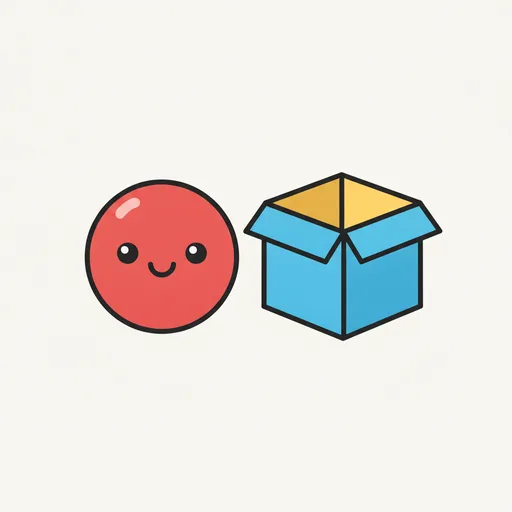
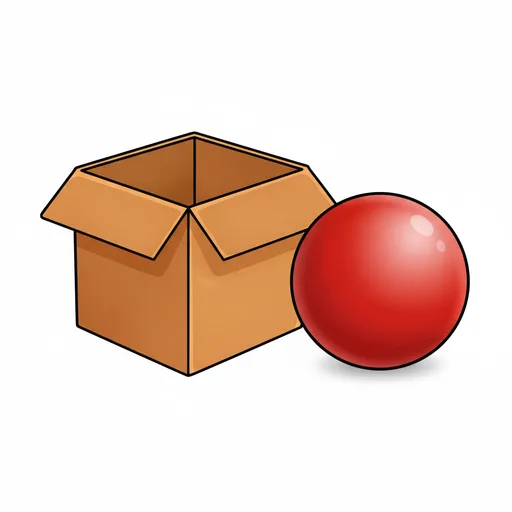
Feat: finish premium static re-render (Phases 12-14) + refresh-restore + finalize
- Premium images COMPLETE for every representational static image: Phase 12
  (Where-words/Questions/Time), Phase 13 (body plurals, shoes, chicken-leg,
  fish-fillet), Phase 14 (ABC "Alphabet Friends": house/kite/whale/queen/etc).
- SAFETY FIX: body-tummy was rendering an inappropriate figure — reprompted to a
  clearly clothed cartoon boy lifting his shirt hem to point at his tummy. All
  body-part images spot-checked child-appropriate.
- Counting Mountain shows the premium number cards 1-20 (ItemVisual rewired; number
  11-20 generated locally; animated numeral+stars kept as fallback).
- Page REFRESH now restores the current screen instead of bouncing Home (per-tab
  sessionStorage nav; Parent re-gates; fresh tab starts Home). verify-nav.mjs added.
- Cache bumped tv-images-v2 -> v3 (+ maxEntries 400 -> 600) to force-purge stale art.
- Swept 5 orphan images (removed vocab). gen-symbols: 429-auto-retry + auto-diversify.
- Docs: LEFT_TO_DO reflects Phase 2 A/B/C done, premium re-render complete, animation
  frames scoped as optional; baby-cry request logged.

check + build + verify:ui green (nav restore, 5 routines, board stable, 0 console errors).

Changed region(s): [[0.0625, 0.25, 0.9375, 0.75]]

diff --git a/src/store.js b/src/store.js
@@ -164,13 +164,32 @@ const initialProfiles = loadProfiles()
 const initialActive = loadJSON(ACTIVE_KEY, null)
 const initialChildCount = loadChildCount(initialProfiles)
 
+// Remember the current screen across a page REFRESH (per-tab, sessionStorage) so a reload
+// stays on the page you were on instead of jumping Home. A fresh visit (new tab / reopened
+// browser) still starts at Home. Gated/transient screens are never restored (re-gate on
+// reload); a restored Learning screen needs its world to still exist.
+const NAV_KEY = 'tv_nav_v1'
+const NO_RESTORE = new Set(['setup', 'profiles', 'parent', 'rest'])
+const loadNav = () => {
+  try { return JSON.parse(sessionStorage.getItem(NAV_KEY)) } catch { return null }
+}
+const restoredNav = (() => {
+  if (initialChildCount == null || !initialActive) return null // setup / "who's playing?" flow wins
+  const n = loadNav()
+  if (!n || !n.screen || NO_RESTORE.has(n.screen)) return null
+  if (n.screen === 'learning' && !getWorld(n.worldId)) return null // world must still exist
+  return n
+})()
+
 export const useStore = create((set, get) => ({
   // First run on a fresh device asks "how many children?" (setup). Otherwise land
   // on Home if a child is chosen, else the "who's playing?" picker.
-  screen: initialChildCount == null ? 'setup' : initialActive ? 'home' : 'profiles',
+  screen: restoredNav
+    ? restoredNav.screen
+    : initialChildCount == null ? 'setup' : initialActive ? 'home' : 'profiles',
   childCount: initialChildCount, // 1 | 2 | null(not yet chosen)
-  worldId: null,
-  itemIndex: 0,
+  worldId: restoredNav?.worldId ?? null,
+  itemIndex: restoredNav?.itemIndex ?? 0,
   muted: isMuted(),
   autoPlay: false,
 
@@ -526,5 +545,19 @@ export const useStore = create((set, get) => ({
       return { progress: fresh }
     }),
 }))
+
+// Persist the current screen (+ Learning context) per-tab whenever it changes, so a page
+// refresh restores it (see restoredNav above). Only writes when the nav actually changes.
+if (typeof window !== 'undefined') {
+  let lastNav = ''
+  useStore.subscribe((s) => {
+    const nav = `${s.screen}|${s.worldId}|${s.itemIndex}`
+    if (nav === lastNav) return
+    lastNav = nav
+    try {
+      sessionStorage.setItem(NAV_KEY, JSON.stringify({ screen: s.screen, worldId: s.worldId, itemIndex: s.itemIndex }))
+    } catch { /* private mode / storage full — refresh just falls back to Home */ }
+  })
+}
 
 export { WORLDS, getWorld }

diff --git a/vite.config.js b/vite.config.js
@@ -31,9 +31,9 @@ export default defineConfig({
             urlPattern: ({ url }) => url.pathname.includes('/images/'),
             handler: 'StaleWhileRevalidate',
             options: {
-              cacheName: 'tv-images-v2',
-              // ~215 bundled WebP today; headroom so a fully-explored install stays cached.
-              expiration: { maxEntries: 400, maxAgeSeconds: 60 * 60 * 24 * 90 },
+              cacheName: 'tv-images-v3', // bumped: force-purge stale art after the premium re-render
+              // ~450 bundled WebP today; headroom so a fully-explored install stays cached.
+              expiration: { maxEntries: 600, maxAgeSeconds: 60 * 60 * 24 * 90 },
               cacheableResponse: { statuses: [0, 200] },
             },
           },

diff --git a/docs/LEFT_TO_DO.md b/docs/LEFT_TO_DO.md
@@ -3,24 +3,39 @@
 > Tracked backlog of things deliberately deferred (mostly blocked on credits/quota).
 > When ready, do the steps below and commit.
 
-## 📍 Phases remaining (at a glance) — updated 2026-08-05
-- **SLP Phase 1 (language) — ✅ DONE.** All of 1.4 (Phrase Builder natural say-override audio),
-  1.8 (homonym game-pool rule), 1.9 (doc wording + `PHRASES_REVIEW.md`) shipped, plus the earlier
-  language corrections, natural game prompts, labelled praise, errorless retry, real-fx sounds,
-  Word Board AAC redesign + vocab fill-out (see §15).
-- **SLP Phase 2 (vocabulary + structure) — A+B DONE; C deferred.**
-  - **A ✅ Social category** (16 core-communication words: Yes/No/More/All done/Okay/Please/Thank
-    you/Hi/Bye/Mine/Again/Uh-oh/Wow/Sorry/Night-night/Yay) — now the Word Practice landing; images
-    (premium) + clips ×3 shipped. **`fn` tags** on all 286 words.
-  - **B ✅ Lint Rule C** (function-word coverage: pronouns/prepositions/question-words/social
-    pillars + 10% ratio backstop) live in `npm run check`.
-  - **C ⏳ "Every Day with Pip"** (routine-based connected-language mode) — deferred; needs a
-    design/mockup pass before build.
-- **Premium image phasing — IN PROGRESS.** New house style is premium (soft cel-shading, richer
-  palette — see `gen-symbols.mjs` STYLE). Replacing the flat-vector board art **in bits**, batch by
-  batch. The Social set (16) is the first premium batch shipped. **Requirement:** premium character
-  re-renders MUST be multi-ethnic (black / brown / white / asian) — the Social batch came out
-  uniformly light-skinned and is a candidate for a diverse redo in a later phase.
+## 🔊 Baby-cry sound (owner request 2026-08-05) — TO SCOPE
+The **Crying / Baby** element should play a distinctive **cartoonish, rhythmic, repetitive
+baby-cry** — the classic "**wah-wah-wah**" / "**wee-wee-wee**" whimper (like kids' apps/videos) —
+not just the spoken "Boo hoo. It's okay." it says today.
+- **Where it triggers:** decide — the Things-I-Do **Crying** item, the **Cry** verb, and/or the
+  **Baby** word (confirm with owner).
+- **How to source:** likely a real short cartoon-cry FX in `public/sounds/fx/<key>.mp3` (looped
+  3–4× like the animal sounds, credited in `public/sounds/CREDITS.md`) and played via `playFx` the
+  way fx-animals do — TTS saying "wah wah wah" would sound like a voice, not a cry, so avoid that.
+- **Toddler-safety:** keep it light/cartoonish, never a distressing real infant cry.
+
+## 📍 Phases remaining (at a glance) — updated 2026-08-06
+- **SLP Phase 1 (language) — ✅ DONE.** 1.4 / 1.8 / 1.9 plus the earlier language corrections,
+  natural game prompts, labelled praise, errorless retry, real-fx sounds, Word Board AAC redesign.
+- **SLP Phase 2 — A+B+C DONE; D open.**
+  - **A ✅ Social category** (16 words) + **`fn` tags** on all words.
+  - **B ✅ Lint Rule C** (function-word coverage) in `npm run check`.
+  - **C ✅ "Every Day with Pip"** — 5 routines (Mealtime, Bedtime, Getting dressed, Bath, Park),
+    tap-along + generous auto-advance, verb animations, fully voiced. `verify-routines.mjs` in suite.
+  - **D ⏳ Weekly parent narrative** — not started (parent-track, local weekly signal).
+- **Premium image re-render — ✅ COMPLETE (static images).** Every representational static image is
+  now premium (soft cel-shading, richer palette — `gen-symbols.mjs` STYLE). Covered Social, Animals,
+  Verbs, Food/Mealtime, People, Body/Clothes, Nature/Places/Toys, Things/Home/School,
+  Describing/Feelings, Where/Questions/Time, ABC "Alphabet Friends", content leftovers. Character
+  renders are **multi-ethnic** (auto skin-tone rotation + diverse family: Black Mama/Dada, Asian
+  Baby; Home Village Mommy/Daddy + Bath **reuse** those images). Counting Mountain now uses the
+  premium **number cards** (1–20). `gen-symbols` gained **429-auto-retry** + **auto-diversify**.
+  - **Left as-is (intentional):** Colour swatches + Number cards (flat is better for those targets).
+  - **Cache bumped** `tv-images-v2`→`-v3` (force-purge stale art everywhere).
+- **Animation frames (~125: song-/act-/do-) — OPTIONAL, TO DECIDE.** Not premiumized. Motion masks
+  the flat style, and per-sequence character-consistency + motion-review make a full re-render the
+  highest-effort/highest-risk/lowest-payoff piece. Recommendation: leave as-is, or a small pilot
+  (one song + one verb) before committing to all 125. See scoping notes.
 - **Parent insight instrumentation (#2) + weekly narrative (#3 = Phase 2 D) — future**, gated on a
   privacy-safe local signal (see `COUNCIL_REVIEW_RESPONSE.md`).
 - **Part C — Stripe billing — scoped, not built.**

diff --git a/TINYVVOICE_PROJECT_CONTEXT.md b/TINYVVOICE_PROJECT_CONTEXT.md
@@ -5,16 +5,16 @@ A git pre-commit hook auto-refreshes the metadata block below; the human-maintai
 sections (Build Status, Next Steps) are updated by hand each push.
 
 <!-- AUTO:START -->
-> _Auto-updated on commit — last refreshed **2026-08-06 03:53 UTC** on branch `main`._
+> _Auto-updated on commit — last refreshed **2026-08-06 16:31 UTC** on branch `main`._
 
 **Recent commits:**
 
+- `397b8a3 Feat: premium Phase 11 (Describing/Feelings + content animals) + Bath/Park audio`
 - `8d4826c Feat: premium Phase 10 + Counting Mountain number cards + diverse family fixes`
 - `d00abbc Feat: Phase 2 C (Every Day with Pip) + premium image re-render (Phases 1-9)`
 - `dcbc318 Feat: Phase 2 A+B — Social/core-communication category + fn tags + lint Rule C`
 - `3e59ef4 Feat: §1.4 Phrase Builder — telegraphic cubes, natural spoken audio`
 - `fdf72c3 Feat: easy wins — homonym game guard, Word Board animals filled, SLP doc wording`
-- `c0977ec Fix: Safari fx repeat 3x + stop prompt on tap (no clipped praise)`
 <!-- AUTO:END -->
 
 ---
